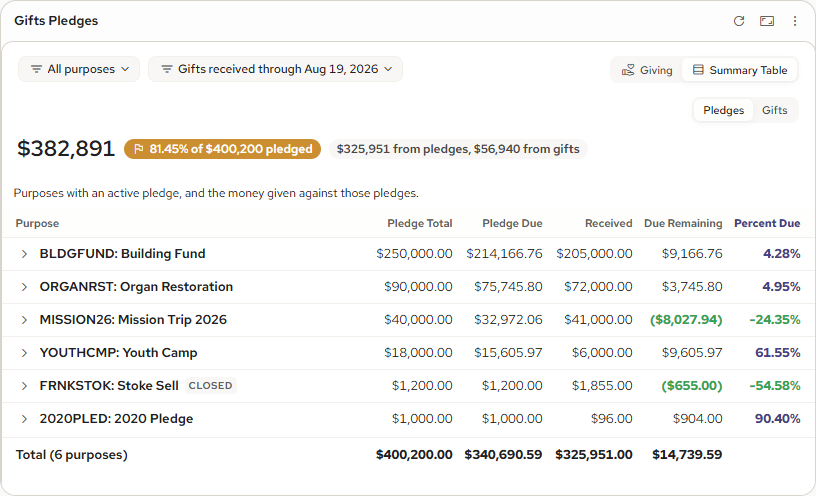
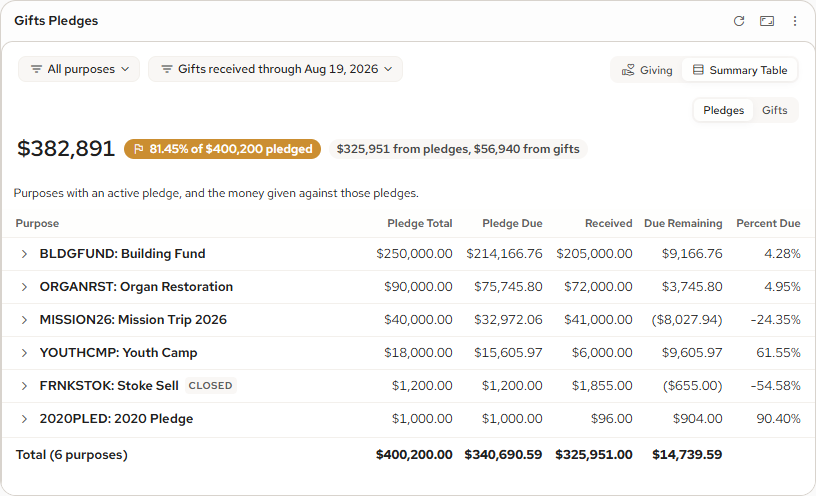
Gifts Pledges: Due Remaining and Percent Due in plain text like the other columns (owner, 11 Oct)
No green on an over-received amount (parentheses stay, as the panel prints them), no
purple or bold on Percent Due, the same in the ledger. Colour rules deleted. Driver
1052; suite green; shots 03, 04 and 05 retaken.

diff --git a/index.html b/index.html
@@ -1918,7 +1918,7 @@
   .gpf-root .gpf-trow{display:flex;align-items:center;gap:var(--gap-tight);}
   .gpf-root .gpf-c-nm{flex:1 1 auto;min-width:0;overflow:hidden;text-overflow:ellipsis;white-space:nowrap;font-weight:600;}
   .gpf-root .gpf-c-n{flex:0 0 auto;width:82px;text-align:right;font-variant-numeric:tabular-nums;}
-  .gpf-root .gpf-c-pct{width:70px;font-weight:650;color:var(--am-700);}
+  .gpf-root .gpf-c-pct{width:70px;}
   .gpf-root .gpf-trow.gpf-clickable:hover{background:var(--wn-100);}
   /* align-self:stretch (owner, 9 Oct): .kpi-num aligns children to content width, which left the bar as wide as its caption */
   .gpf-root .gpf-glance-read{display:flex;flex-direction:column;gap:var(--gap-xxtight);margin-top:var(--padding-tight);align-self:stretch;}
@@ -1993,8 +1993,6 @@
   .gpf-root .gpf-closed{display:inline-block;font-size:var(--type-size-10);font-weight:600;text-transform:uppercase;letter-spacing:.04em;color:var(--txt-subtle);background:var(--wn-200);border-radius:var(--cornerradius-small);padding:var(--padding-xxxtight) var(--padding-xxtight);margin-left:var(--padding-xtight);vertical-align:1px;}
   /* money and percent cell tints. Over received is FAVOURABLE and green; a
      high percent still outstanding is emphasised in amethyst, never red. */
-  .gpf-root .gpf-fav{color:var(--pos-100);font-weight:650;}
-  .gpf-root .gpf-over{color:var(--am-700);font-weight:650;}
   .gpf-root .gpf-muted{color:var(--txt-subtle);}
   /* GOAL PROGRESS. Her bars container does the row rhythm and her progress row
      does the anatomy; this only makes the list scroll inside the card so a long
@@ -10012,9 +10010,9 @@ function gpFEsc(s){return escAttr(s);}
 function gpFMoney(n){var neg=n<0,v=Math.abs(n);var s="$"+v.toLocaleString("en-US",{minimumFractionDigits:2,maximumFractionDigits:2});return neg?("-"+s):s;}
 function gpFMoney0(n){var neg=n<0,v=Math.abs(Math.round(n));var s="$"+v.toLocaleString("en-US");return neg?("-"+s):s;}
 /* Over-received (a negative Due Remaining) renders parenthesised and is FAVOURABLE. */
-function gpFDueCell(n){if(n<-0.005)return '<span class="gpf-fav">('+gpFMoney(Math.abs(n))+')</span>';return gpFMoney(n);}
+function gpFDueCell(n){if(n<-0.005)return '('+gpFMoney(Math.abs(n))+')';return gpFMoney(n);}
 function gpFPct(x){if(x==null)return "n/a";return (Math.round(x*10000)/100).toFixed(2)+"%";}
-function gpFPctCell(x){if(x==null)return '<span class="gpf-muted">n/a</span>';var cls=(x<-0.005)?'gpf-fav':(x>=0.75?'gpf-over':'');return '<span class="'+cls+'">'+gpFPct(x)+'</span>';}
+function gpFPctCell(x){return gpFPct(x);}
 function gpFParse(iso){return parseISO(iso);}
 function gpFISO(d){return d.getFullYear()+"-"+String(d.getMonth()+1).padStart(2,"0")+"-"+String(d.getDate()).padStart(2,"0");}
 function gpFFmtDate(iso){return fmtDateLong(iso);}

diff --git a/_tools/w17-gifts.driver.js b/_tools/w17-gifts.driver.js
@@ -744,7 +744,7 @@ A.cssDeclares(shell.css, [
 ], "every shell and copied class our markup uses is declared");
 /* and our own additions are declared too */
 A.cssDeclares(shell.css, [
-  "gpf-root", "gpf-body", "gpf-pill", "gpf-badge", "gpf-closed", "gpf-fav", "gpf-over", "gpf-muted",
+  "gpf-root", "gpf-body", "gpf-pill", "gpf-badge", "gpf-closed", "gpf-muted",
   "gpf-goalwrap", "gpf-barscroll", "gpf-legend", "gpf-lg-i", "gpf-lg-sw", "gpf-lg-n", "gpf-lg-rem",
   "gpf-cap", "gpf-tblwrap", "gpf-scroll", "gpf-sumrow", "gpf-sumtotal", "gpf-caret",
   "gpf-nmtxt", "gpf-nm", "gpf-nmsub", "gpf-drill-tbl", "gpf-drawer",
@@ -1374,5 +1374,12 @@ A.eq((shell.script.match(/gpFCamp:"All purposes",gpFPlExp:\{\}/g) || []).length,
   A.contains(EX.popContent(), "All purposes", "with its content");
   EX.setPop(null);
 })();
+
+/* owner, 11 Oct: Due Remaining and Percent Due read like every other column, plain text; an over-received
+   amount keeps its parentheses, as the legacy panel prints it */
+A.eq(ctx.gpFDueCell(-655), "($655.00)", "an over-received Due Remaining is parenthesised, plain"); A.eq(ctx.gpFDueCell(904), "$904.00", "a positive one is the plain amount");
+A.eq(ctx.gpFPctCell(-0.5458), "-54.58%", "Percent Due is the plain percentage"); A.eq(ctx.gpFPctCell(null), "n/a", "n/a when Pledge Due is zero");
+["gpf-fav", "gpf-over"].forEach(function (c) { A.absent(block, c, "no colour class on the figures: " + c); A.absent(shell.css, ".gpf-root ." + c + "{", "and no rule for it"); });
+A.eq(/\.gpf-root \.gpf-c-pct\{([^}]*)\}/.exec(shell.css)[1], "width:70px;", "the Percent Due column carries only its width");
 
 process.exit(A.report());

diff --git a/handover.html b/handover.html
@@ -1099,7 +1099,7 @@ main{padding:20px 16px 60px} .widget{padding:18px 16px} .pair-grid{grid-template
 <h4>Table</h4>
 <ul>
 <li><strong>Explore - Summary Table, Detail:</strong> a Pledges / Gifts switch on its own line under the view switch, right-aligned, only while the table is up. New in V2.</li>
-<li><strong>Explore - Summary Table:</strong> Pledges has the panel's six columns at every size: Purpose, Pledge Total, Pledge Due, Received, Due Remaining and Percent Due; amounts to the cent; largest Pledge Total first; over-received Due Remaining in green parentheses; a caption; a "Total (6 purposes)" row. Only purposes with an active pledge are listed. V1 had Pledged, Due by date, Received, Remaining and % Fulfilled, every header sortable, in whole dollars.</li>
+<li><strong>Explore - Summary Table:</strong> Pledges has the panel's six columns at every size: Purpose, Pledge Total, Pledge Due, Received, Due Remaining and Percent Due; amounts to the cent; largest Pledge Total first; an over-received Due Remaining in parentheses, every figure in plain text; a caption; a "Total (6 purposes)" row. Only purposes with an active pledge are listed. V1 had Pledged, Due by date, Received, Remaining and % Fulfilled, every header sortable, in whole dollars.</li>
 <li><strong>Explore - Summary Table gifts:</strong> Gifts has Purpose ("Also has pledges" or "No pledges" beneath), Gifts, Donors and Total, left-aligned, largest first, with its own totals row. A row opens the ledger filtered to Gifts. Not in V1.</li>
 </ul>
 <h4>Pop-up</h4>

diff --git a/docs/decisions/W17.md b/docs/decisions/W17.md
@@ -465,3 +465,4 @@ Owner, 11 Oct, after reviewing the logic draft: "the time filter does not make f
 - Handover section rewritten and all six V2 shots retaken; see the 11 Oct commit.
 - **Second round, same day (owner, from the screenshots): "Add purpose section to glimpse, check other widgets for where it should go to match other widgets. Remove Status from the table on pledges and change to Percent Due."** The purpose chip leads the Glance, first in the figure column as Deposits on Hand and Payroll Distributions place theirs; to keep four lines inside the Glance height the pledged pill sits beside the big figure, the Explore header's own arrangement (at the owner's 125% zoom it wraps under the figure and still fits). The Pledges table is the panel's six columns at every size, Percent Due included (it had been Detail only since 28 Sep); its Status column and chip are gone, the three words staying on the header badge, the Giving rows and the ledger. Driver 1043; suite 3704 green; shots 01, 03 and 04 retaken; handover Overview, Glance and Table bullets updated.
 - **Table captions (owner, same day): "the text need to be made very simple and easy, what is the pledge list and what is the gift list and the text should be the same. no colour on the text."** One parallel sentence each, in plain text colour: Pledges "Purposes with an active pledge, and the money given against those pledges."; Gifts "Purposes with money given that is not against any pledge." The explanations of Pledge Due, Percent Due and donor counting left the captions (they stay in the handover's Developer Notes). Shots 03 and 06 retaken.
+- **Due Remaining and Percent Due (owner, same day): "still got colour. I want it to stay the same as other columns."** Both columns are plain text like the others: no green on an over-received amount (the parentheses stay, as the panel prints them), no purple or bold on Percent Due, and the same in the ledger's Due Remaining. The .gpf-fav and .gpf-over rules are deleted. Shots 03, 04 and 05 retaken.
